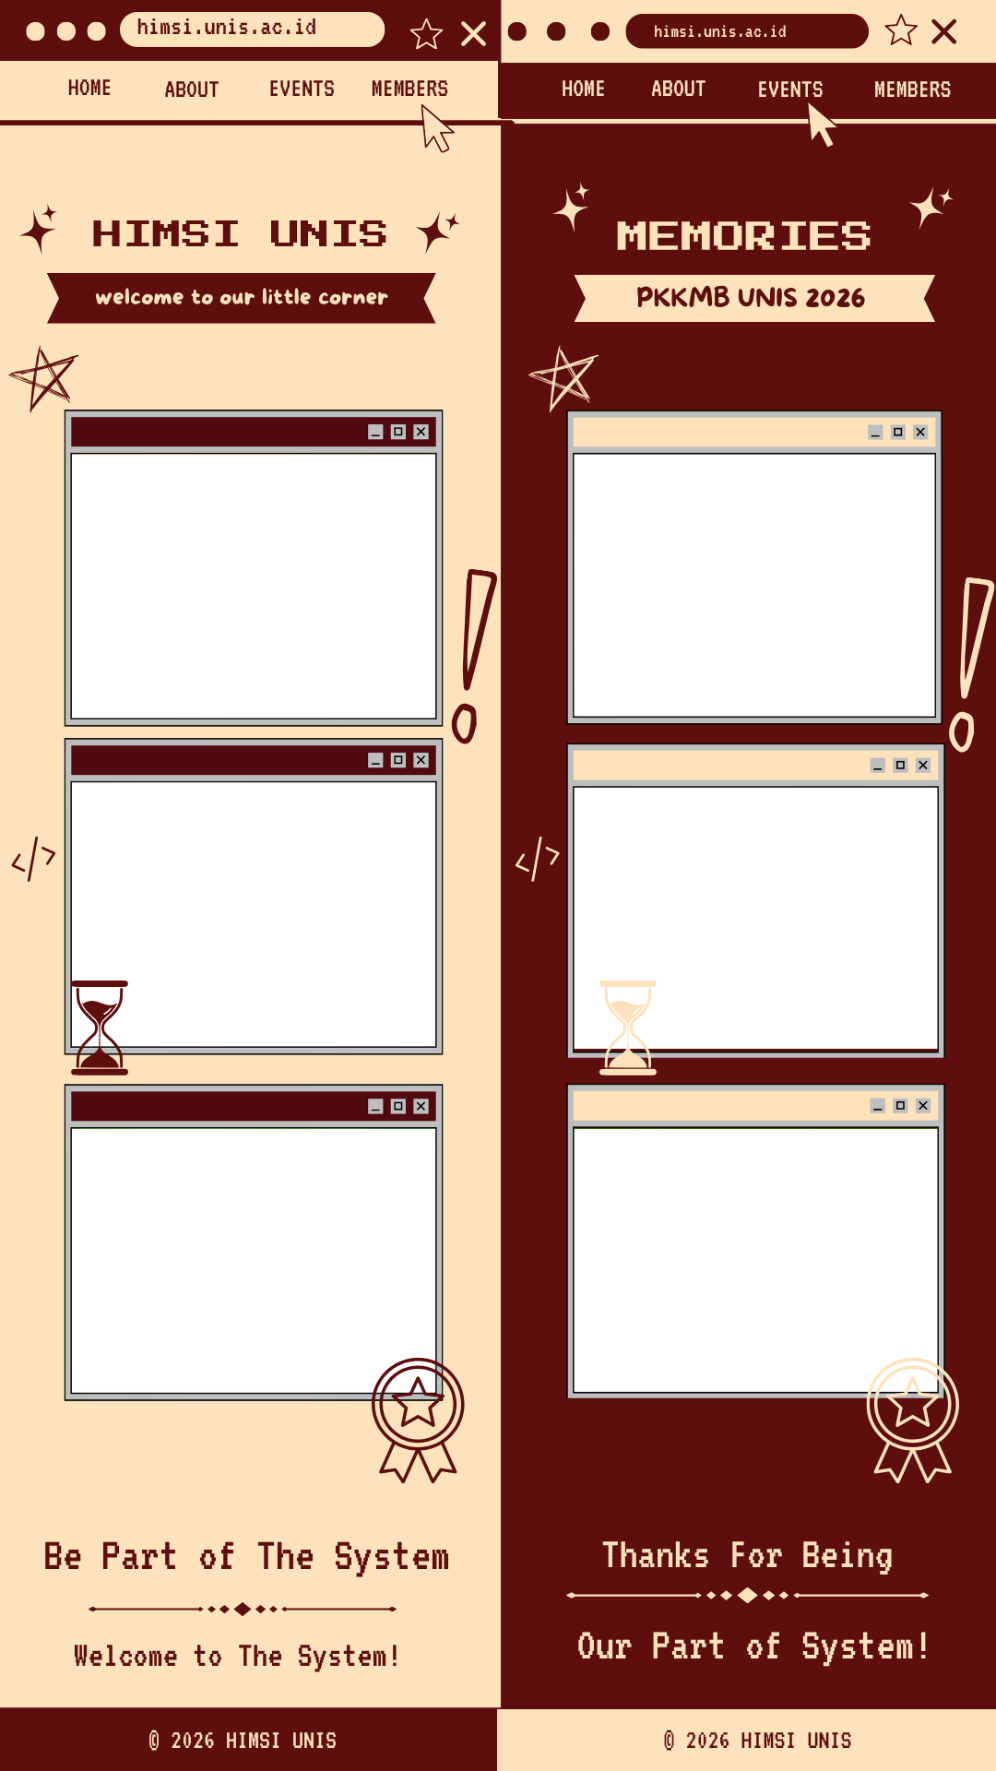
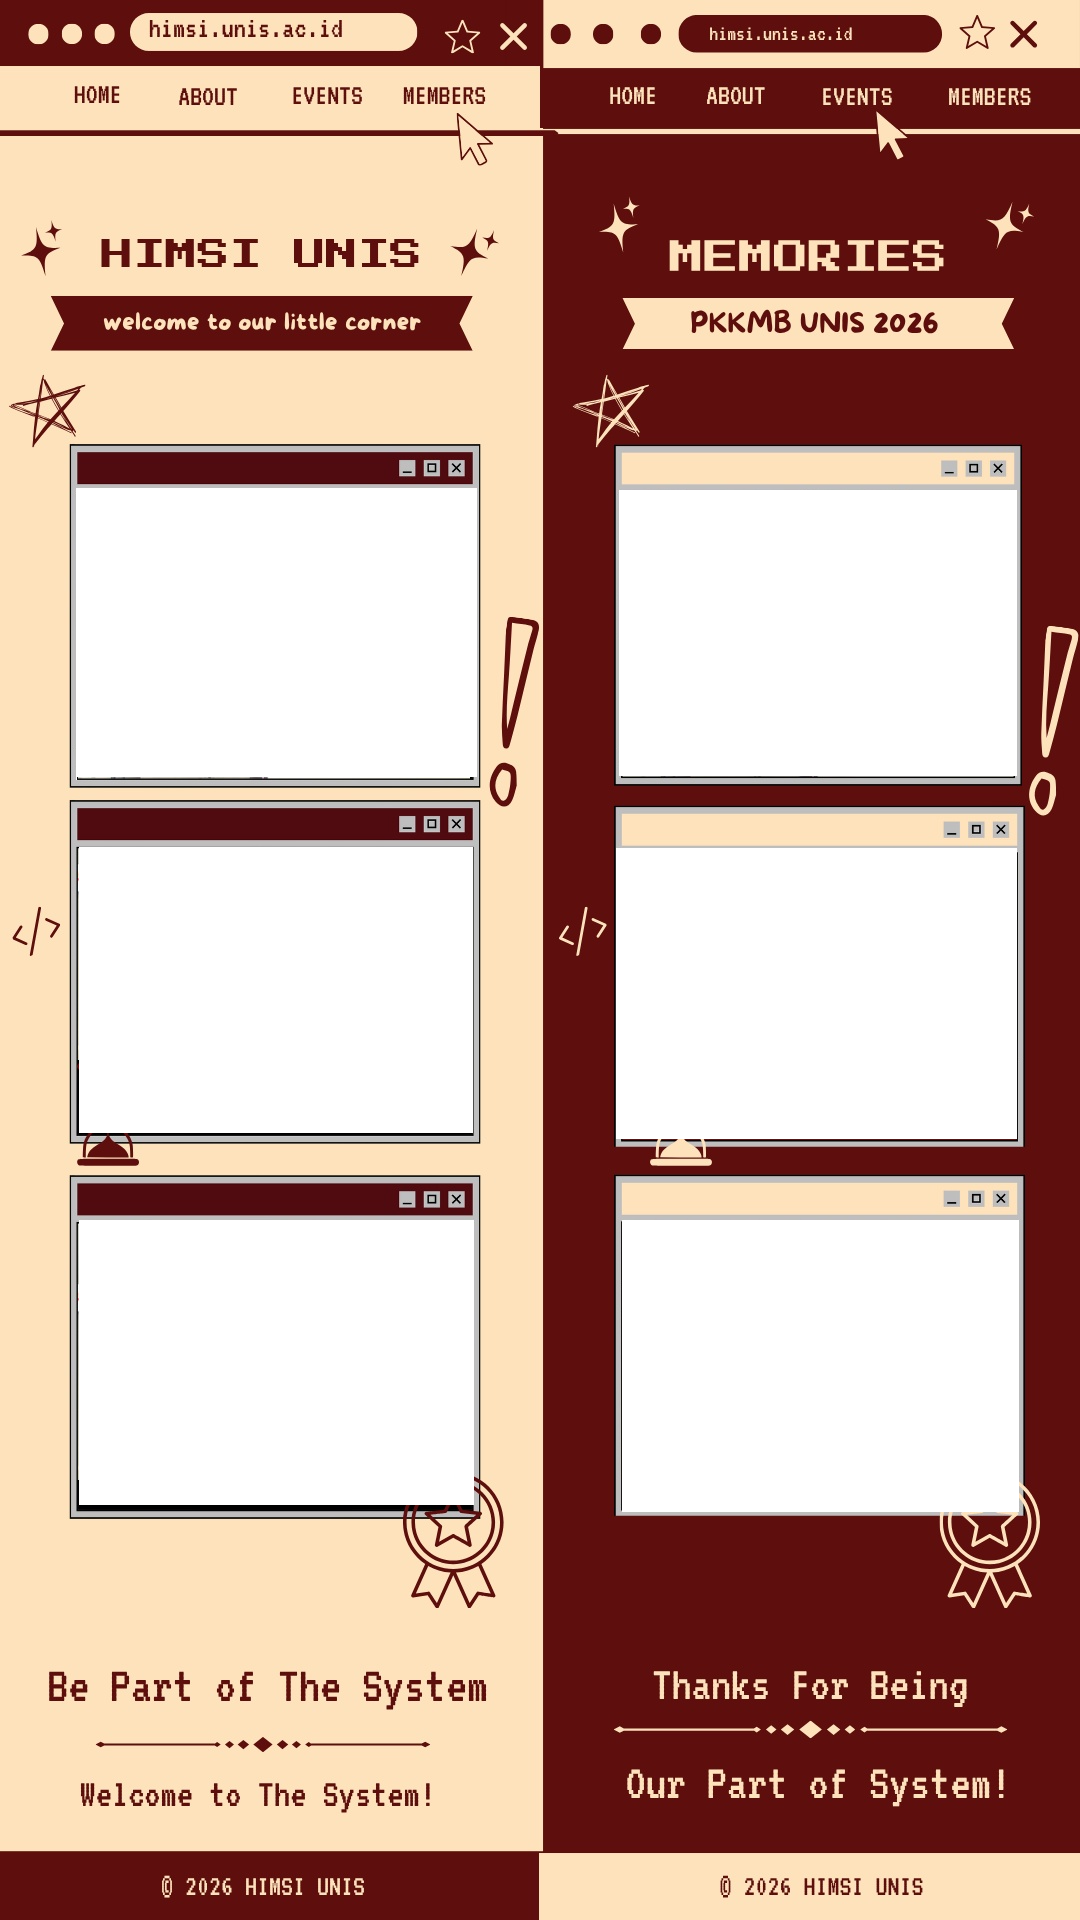
Update frame2.png dan sinkronisasi koordinat photobooth.js

diff --git a/photobooth/assets/js/photobooth.js b/photobooth/assets/js/photobooth.js
@@ -86,15 +86,13 @@ const frameData = [
             width: 1080,
             height: 1920,
             photos: [
-                // KOORDINAT KHUSUS FRAME 2 (Presisi ke area putih retro window)
-                // Kolom Kiri
-                { x: 70, y: 288, width: 400, height: 285 },
-                { x: 70, y: 752, width: 400, height: 285 },
-                { x: 70, y: 1216, width: 400, height: 285 },
-                // Kolom Kanan
-                { x: 610, y: 288, width: 400, height: 285 },
-                { x: 610, y: 752, width: 400, height: 285 },
-                { x: 610, y: 1216, width: 400, height: 285 }
+                // Koordinat disamakan dengan Frame 1
+                { x: 61,  y: 425, width: 388, height: 334 },
+                { x: 622, y: 400, width: 389, height: 334 },
+                { x: 63,  y: 868, width: 389, height: 334 },
+                { x: 623, y: 848, width: 388, height: 334 },
+                { x: 63,  y: 1314, width: 389, height: 334 },
+                { x: 627, y: 1298, width: 389, height: 334 }
             ]
         }
     },
